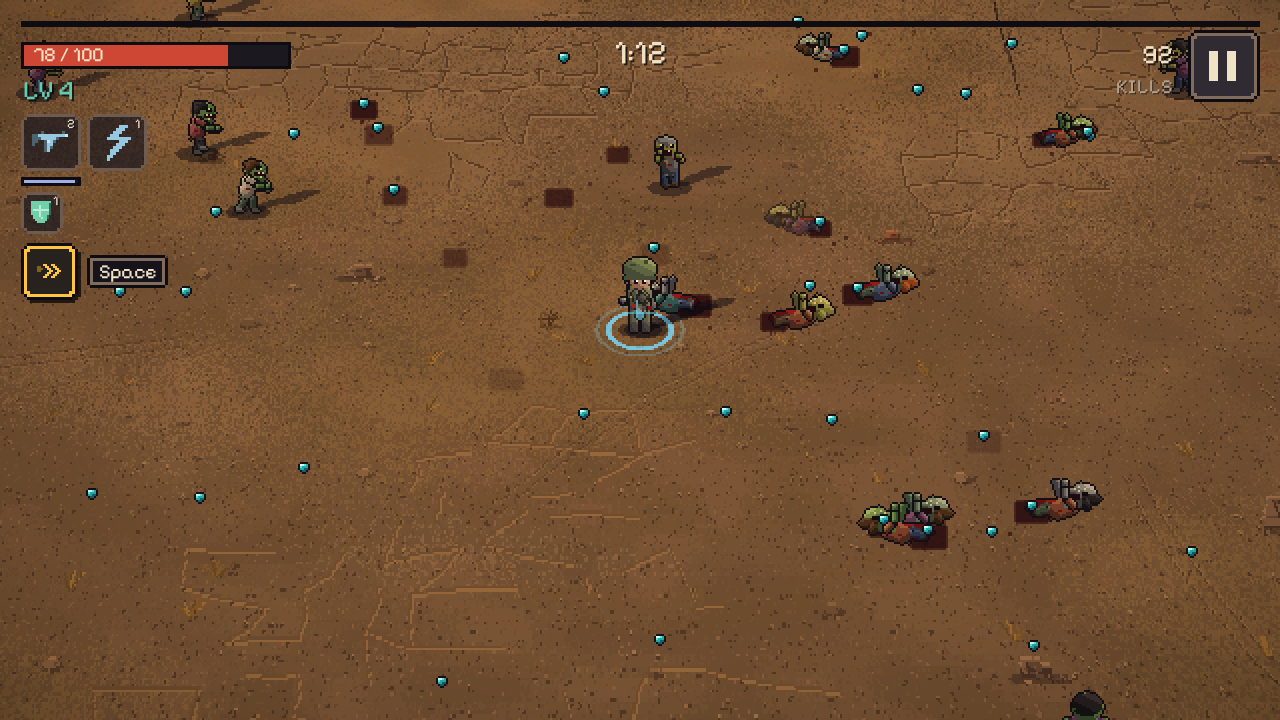
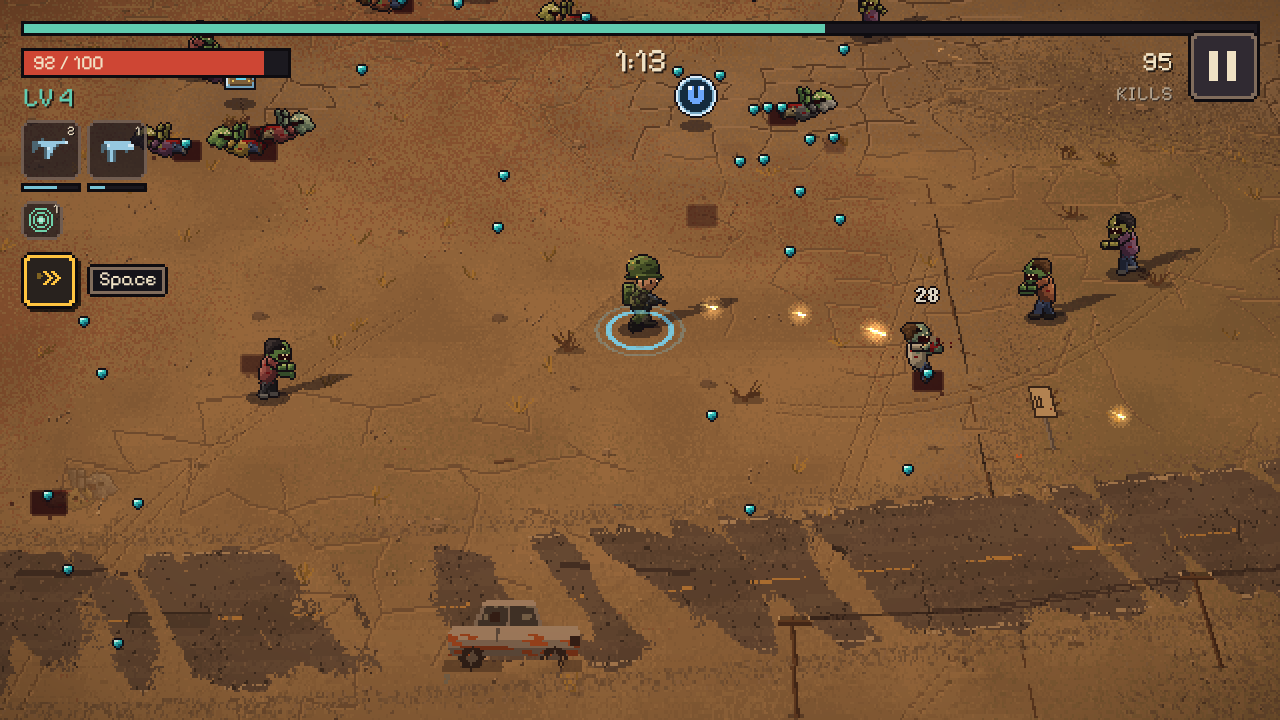
docs: retake the README pictures from real play
- show the fixed stick, the thicker XP bar and the best run panel
- update test counts

diff --git a/README.md b/README.md
@@ -59,7 +59,7 @@ Measured on a laptop with an Intel UHD integrated GPU, in headless Chrome. Real 
 | Stress test: 2,000 zombies and 3,000 shots at 1920x1080 | Locked at the 144 Hz display, with a 99th percentile frame gap of 7.3 ms |
 | 2,000 zombies at phone size, with the processor slowed 6 times as a stand-in for a weak phone | Average above 30 fps, though single frames drop below it. This does not slow the graphics chip |
 | Compressed download | About 391 KB on a first visit |
-| Tests | 249 unit test cases and 250 browser tests, all passing |
+| Tests | 249 unit test cases and 252 browser tests, all passing |
 
 Balance is checked by bots that play 100 games per setting on seeds not used for tuning:
 

diff --git a/docs/ARCHITECTURE.md b/docs/ARCHITECTURE.md
@@ -1271,7 +1271,7 @@ The tests also take a **real pixel check** ([`countColorNearCenter`](../tests/e2
 
 The functional tests run Chrome with a software renderer, so they check behavior, not speed. [`perf.mjs`](../tests/e2e/perf.mjs) is run by hand and uses the machine's real GPU.
 
-**Measured result.** The last full browser run passed **250 of 250** tests, with none skipped.
+**Measured result.** The last full browser run passed **252 of 252** tests, with none skipped.
 
 ### Performance
 
